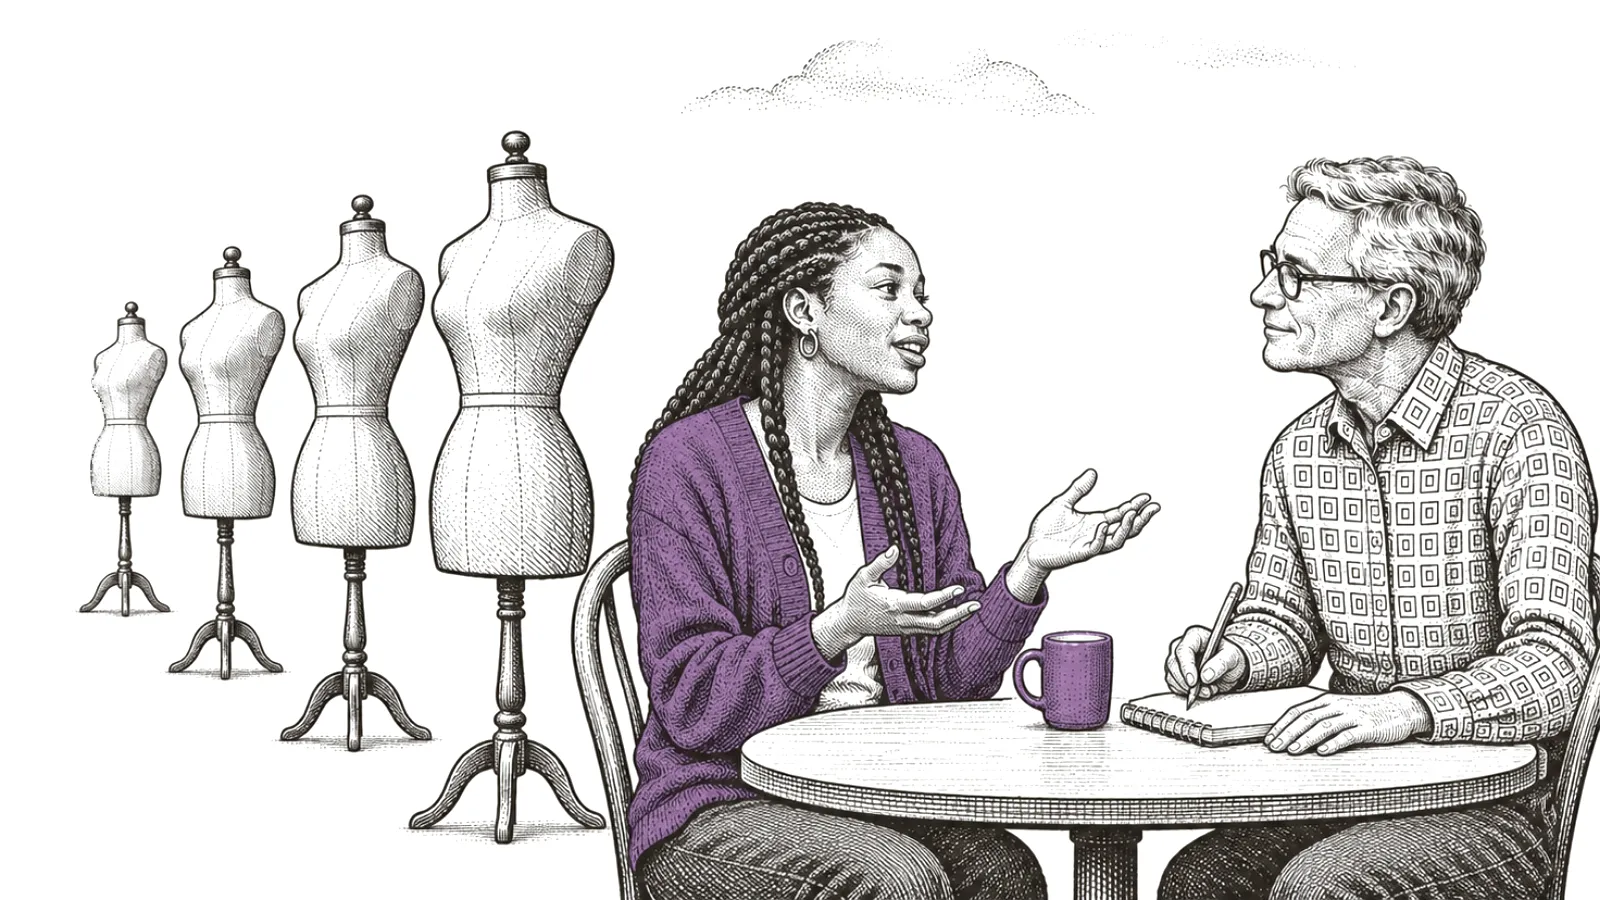
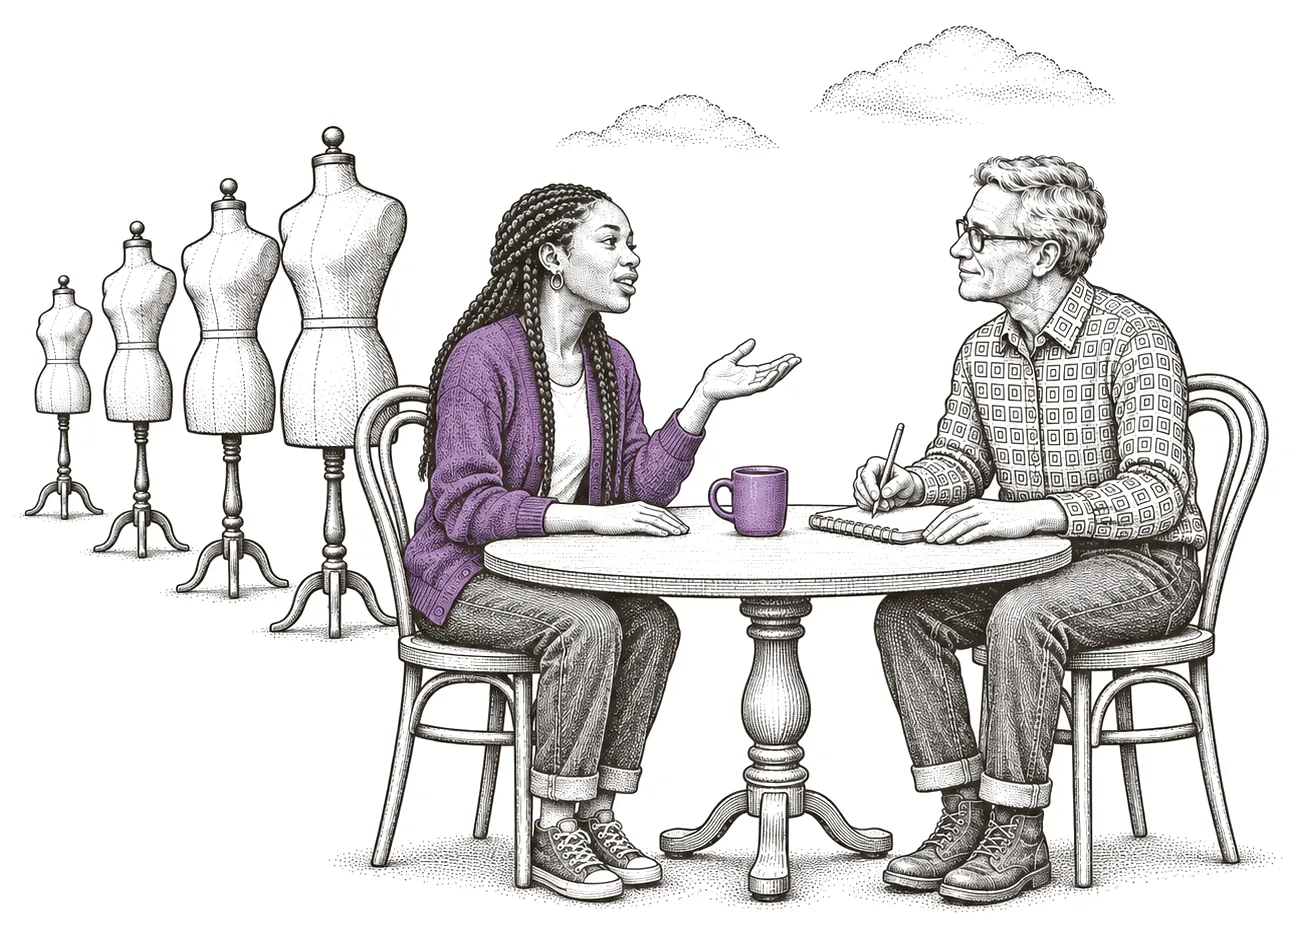
Writing: Lesson 10's hero redrawn whole, floating like the other eleven
The pair, their chairs, and the table are drawn complete, so the drawing
no longer runs off the corner and the --edge rules go.

diff --git a/writing/shift.css b/writing/shift.css
@@ -927,9 +927,7 @@ a.shift-card:focus-visible { outline: 2px solid var(--color-focus-ring); outline
    ground through. From 64rem the drawing floats in the right of the hero,
    --shift-art wide, centered on the height of the band, and the title and
    dek take the column to its left; below that it sits under the title at
-   the width of the column. One drawing, Lesson 10's, was composed to run
-   off the corner and keeps that (.shift-hero-art--edge). The three terms
-   follow on white. The landing keeps its own hero (.shift-landing). */
+   the width of the column. The three terms follow on white. The landing keeps its own hero (.shift-landing). */
 .shift-lesson .case-hero {
   --shift-art: min(56vw, 64rem);
   position: relative;
@@ -945,10 +943,8 @@ a.shift-card:focus-visible { outline: 2px solid var(--color-focus-ring); outline
   margin: var(--space-lg) auto 0;
   mix-blend-mode: multiply;
 }
-.shift-lesson .case-hero:has(.shift-hero-art--edge) { padding-bottom: 0; }
-.shift-lesson .shift-hero-art--edge { width: 100%; }
 @media (max-width: 63.99rem) {
-  .shift-lesson .case-hero > .shift-hero-art:not(.shift-hero-art--edge) {
+  .shift-lesson .case-hero > .shift-hero-art {
     width: calc(100% - 2 * var(--gutter));
     max-height: 60vw;
     object-fit: contain;
@@ -977,13 +973,5 @@ a.shift-card:focus-visible { outline: 2px solid var(--color-focus-ring); outline
     margin: 0;
     object-fit: contain;
     transform: translateY(-50%);
-  }
-  .shift-lesson .case-hero:has(.shift-hero-art--edge) > .container { padding-bottom: var(--space-4xl); }
-  .shift-lesson .shift-hero-art--edge {
-    right: -4vw;
-    top: auto;
-    bottom: 0;
-    height: auto;
-    transform: none;
   }
 }

diff --git a/writing/who-sets-the-rules-when-research-uses-digital-twins.html b/writing/who-sets-the-rules-when-research-uses-digital-twins.html
@@ -115,7 +115,7 @@
   <link rel="stylesheet" href="../style.css?v=20261114b" />
   <link rel="stylesheet" href="../site-nav.css?v=20261030b" />
   <link rel="stylesheet" href="../read-aloud.css?v=7" />
-  <link rel="stylesheet" href="shift.css?v=25" />
+  <link rel="stylesheet" href="shift.css?v=26" />
   <script src="../site-nav.js?v=20260906a" defer></script>
   <script src="../read-aloud.js?v=4" defer></script>
   <script src="../writing.js?v=20261030a" defer></script>
@@ -275,7 +275,7 @@
           </div>
         </div>
       </div>
-      <img class="shift-hero-art shift-hero-art--edge" src="../img/writing/shift/narrative-ink/chapter-4/chapter4-lesson10-hero.webp?v=2" width="1600" height="900" alt="" decoding="async" />
+      <img class="shift-hero-art" src="../img/writing/shift/narrative-ink/chapter-4/chapter4-lesson10-hero.webp?v=3" width="1294" height="937" alt="" decoding="async" />
     </header>
     <div class="shift-terms-band">
       <div class="container case-narrow">

diff --git a/writing/how-do-you-run-a-design-sprint-for-an-ai-product.html b/writing/how-do-you-run-a-design-sprint-for-an-ai-product.html
@@ -115,7 +115,7 @@
   <link rel="stylesheet" href="../style.css?v=20261114b" />
   <link rel="stylesheet" href="../site-nav.css?v=20261030b" />
   <link rel="stylesheet" href="../read-aloud.css?v=7" />
-  <link rel="stylesheet" href="shift.css?v=25" />
+  <link rel="stylesheet" href="shift.css?v=26" />
   <script src="../site-nav.js?v=20260906a" defer></script>
   <script src="../read-aloud.js?v=4" defer></script>
   <script src="../writing.js?v=20261030a" defer></script>

diff --git a/writing/how-do-you-write-design-quality-down-so-an-agent-can-use-it.html b/writing/how-do-you-write-design-quality-down-so-an-agent-can-use-it.html
@@ -115,7 +115,7 @@
   <link rel="stylesheet" href="../style.css?v=20261114b" />
   <link rel="stylesheet" href="../site-nav.css?v=20261030b" />
   <link rel="stylesheet" href="../read-aloud.css?v=7" />
-  <link rel="stylesheet" href="shift.css?v=25" />
+  <link rel="stylesheet" href="shift.css?v=26" />
   <script src="../site-nav.js?v=20260906a" defer></script>
   <script src="../read-aloud.js?v=4" defer></script>
   <script src="../writing.js?v=20261030a" defer></script>

diff --git a/writing/index.html b/writing/index.html
@@ -118,7 +118,7 @@
   <link rel="stylesheet" href="../style.css?v=20261114c" />
   <link rel="stylesheet" href="../site-nav.css?v=20261030b" />
   <link rel="stylesheet" href="index.css?v=3" />
-  <link rel="stylesheet" href="shift.css?v=25" />
+  <link rel="stylesheet" href="shift.css?v=26" />
   <script src="../site-nav.js?v=20260906a" defer></script>
   <script src="shift.js?v=2" defer></script>
   <!-- The header logo plays a one-shot reveal clip on load and fades out

diff --git a/writing/what-changes-when-you-design-the-task-instead-of-the-app.html b/writing/what-changes-when-you-design-the-task-instead-of-the-app.html
@@ -115,7 +115,7 @@
   <link rel="stylesheet" href="../style.css?v=20261114b" />
   <link rel="stylesheet" href="../site-nav.css?v=20261030b" />
   <link rel="stylesheet" href="../read-aloud.css?v=7" />
-  <link rel="stylesheet" href="shift.css?v=25" />
+  <link rel="stylesheet" href="shift.css?v=26" />
   <script src="../site-nav.js?v=20260906a" defer></script>
   <script src="../read-aloud.js?v=4" defer></script>
   <script src="../writing.js?v=20261030a" defer></script>

diff --git a/writing/what-does-a-requirements-doc-need-once-the-product-is-ai.html b/writing/what-does-a-requirements-doc-need-once-the-product-is-ai.html
@@ -115,7 +115,7 @@
   <link rel="stylesheet" href="../style.css?v=20261114b" />
   <link rel="stylesheet" href="../site-nav.css?v=20261030b" />
   <link rel="stylesheet" href="../read-aloud.css?v=7" />
-  <link rel="stylesheet" href="shift.css?v=25" />
+  <link rel="stylesheet" href="shift.css?v=26" />
   <script src="../site-nav.js?v=20260906a" defer></script>
   <script src="../read-aloud.js?v=4" defer></script>
   <script src="../writing.js?v=20261030a" defer></script>

diff --git a/writing/what-is-an-ai-agent-actually-made-of.html b/writing/what-is-an-ai-agent-actually-made-of.html
@@ -115,7 +115,7 @@
   <link rel="stylesheet" href="../style.css?v=20261114b" />
   <link rel="stylesheet" href="../site-nav.css?v=20261030b" />
   <link rel="stylesheet" href="../read-aloud.css?v=7" />
-  <link rel="stylesheet" href="shift.css?v=25" />
+  <link rel="stylesheet" href="shift.css?v=26" />
   <script src="../site-nav.js?v=20260906a" defer></script>
   <script src="../read-aloud.js?v=4" defer></script>
   <script src="../writing.js?v=20261030a" defer></script>

diff --git a/writing/what-is-ux-for-when-agents-build-the-software.html b/writing/what-is-ux-for-when-agents-build-the-software.html
@@ -115,7 +115,7 @@
   <link rel="stylesheet" href="../style.css?v=20261114b" />
   <link rel="stylesheet" href="../site-nav.css?v=20261030b" />
   <link rel="stylesheet" href="../read-aloud.css?v=7" />
-  <link rel="stylesheet" href="shift.css?v=25" />
+  <link rel="stylesheet" href="shift.css?v=26" />
   <script src="../site-nav.js?v=20260906a" defer></script>
   <script src="../read-aloud.js?v=4" defer></script>
   <script src="../writing.js?v=20261030a" defer></script>

diff --git a/writing/what-makes-onboarding-in-an-ai-app-feel-personal.html b/writing/what-makes-onboarding-in-an-ai-app-feel-personal.html
@@ -115,7 +115,7 @@
   <link rel="stylesheet" href="../style.css?v=20261114b" />
   <link rel="stylesheet" href="../site-nav.css?v=20261030b" />
   <link rel="stylesheet" href="../read-aloud.css?v=7" />
-  <link rel="stylesheet" href="shift.css?v=25" />
+  <link rel="stylesheet" href="shift.css?v=26" />
   <script src="../site-nav.js?v=20260906a" defer></script>
   <script src="../read-aloud.js?v=4" defer></script>
   <script src="../writing.js?v=20261030a" defer></script>

diff --git a/writing/what-should-come-first-when-you-redesign-an-ai-product.html b/writing/what-should-come-first-when-you-redesign-an-ai-product.html
@@ -115,7 +115,7 @@
   <link rel="stylesheet" href="../style.css?v=20261114b" />
   <link rel="stylesheet" href="../site-nav.css?v=20261030b" />
   <link rel="stylesheet" href="../read-aloud.css?v=7" />
-  <link rel="stylesheet" href="shift.css?v=25" />
+  <link rel="stylesheet" href="shift.css?v=26" />
   <script src="../site-nav.js?v=20260906a" defer></script>
   <script src="../read-aloud.js?v=4" defer></script>
   <script src="../writing.js?v=20261030a" defer></script>

diff --git a/writing/what-should-you-never-do-when-building-an-agent.html b/writing/what-should-you-never-do-when-building-an-agent.html
@@ -115,7 +115,7 @@
   <link rel="stylesheet" href="../style.css?v=20261114b" />
   <link rel="stylesheet" href="../site-nav.css?v=20261030b" />
   <link rel="stylesheet" href="../read-aloud.css?v=7" />
-  <link rel="stylesheet" href="shift.css?v=25" />
+  <link rel="stylesheet" href="shift.css?v=26" />
   <script src="../site-nav.js?v=20260906a" defer></script>
   <script src="../read-aloud.js?v=4" defer></script>
   <script src="../writing.js?v=20261030a" defer></script>
